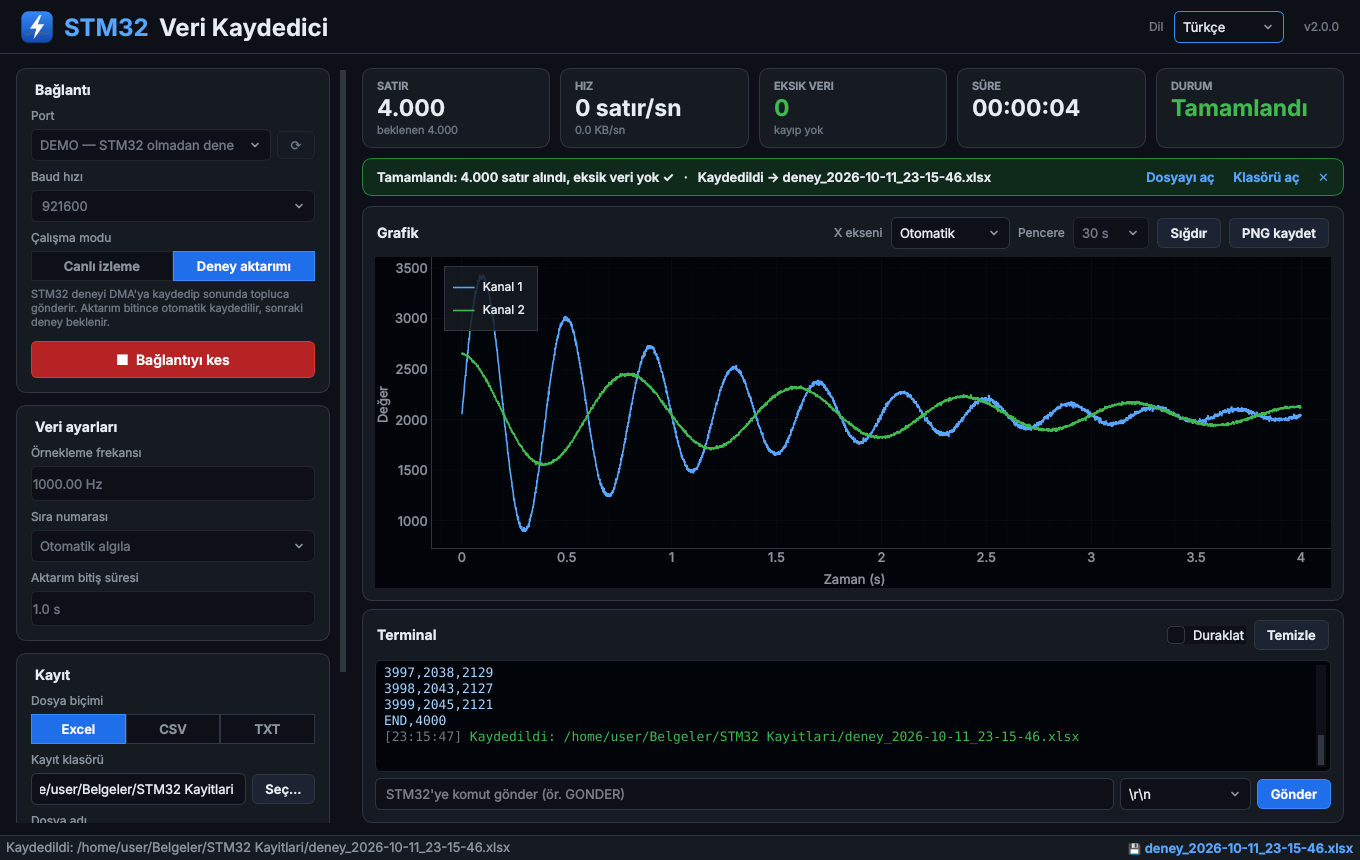
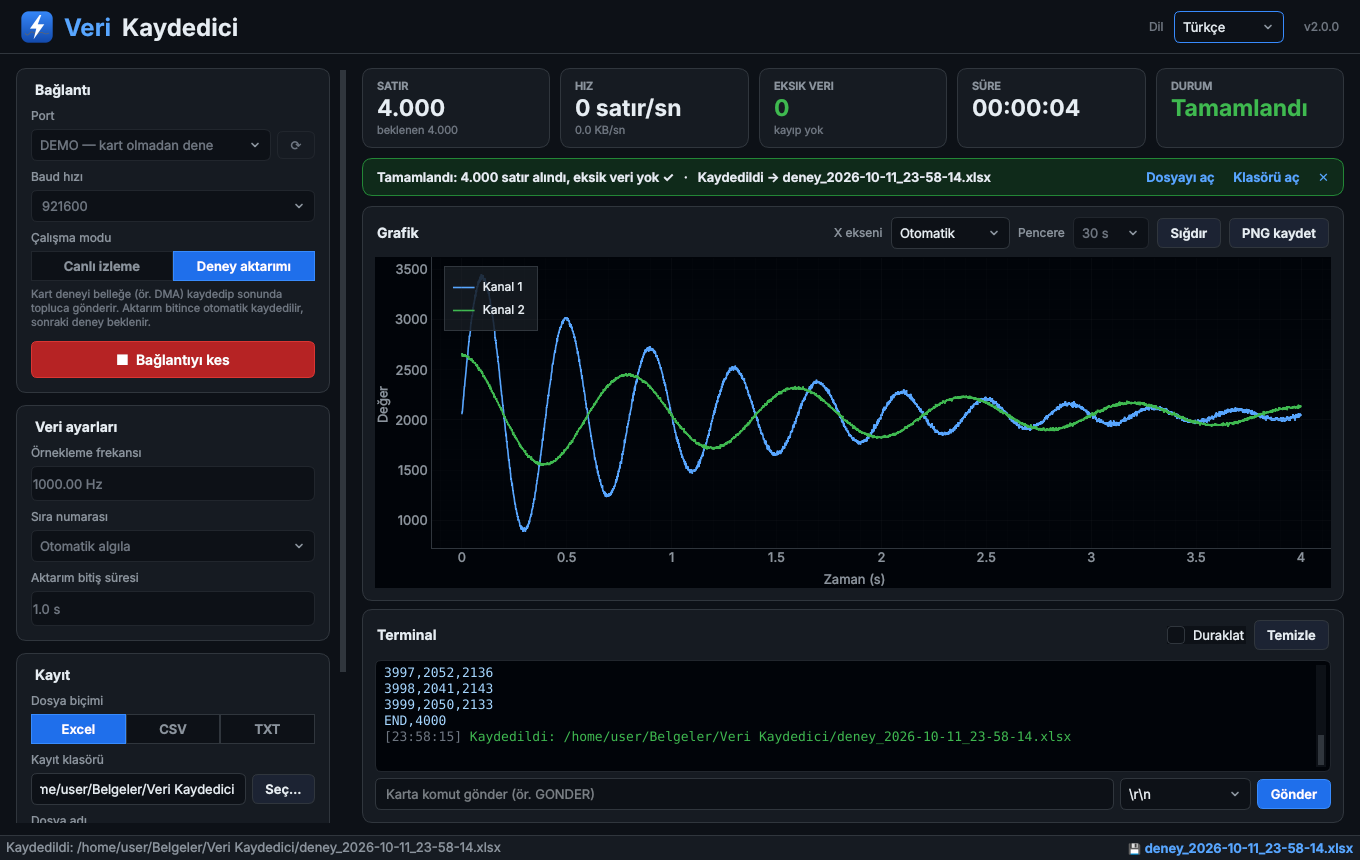
Add files via upload

diff --git a/stm32logger/i18n.py b/stm32logger/i18n.py
@@ -4,7 +4,9 @@ from __future__ import annotations
 STRINGS: dict[str, dict[str, str]] = {
     "tr": {
         # başlık / genel
-        "app_title": "Veri Kaydedici",
+        "title_a": "Veri",
+        "title_b": "Kaydedici",
+        "app_name": "Veri Kaydedici",
         "language": "Dil",
         # bağlantı kartı
         "card_conn": "Bağlantı",
@@ -15,18 +17,18 @@ STRINGS: dict[str, dict[str, str]] = {
         "mode_live": "Canlı izleme",
         "mode_dma": "Deney aktarımı",
         "mode_file": "Dosyadan",
-        "mode_live_hint": "STM32 veriyi gönderdikçe anlık gösterir ve kaydeder.",
-        "mode_dma_hint": "STM32 deneyi DMA'ya kaydedip sonunda topluca gönderir. "
+        "mode_live_hint": "Kart (STM32, Arduino, ESP32…) veriyi gönderdikçe anlık gösterir ve kaydeder.",
+        "mode_dma_hint": "Kart deneyi belleğe (ör. DMA) kaydedip sonunda topluca gönderir. "
                          "Aktarım bitince otomatik kaydedilir, sonraki deney beklenir.",
         "connect": "Bağlan",
         "disconnect": "Bağlantıyı kes",
         "no_port": "Port bulunamadı",
-        "demo_port": "DEMO — STM32 olmadan dene",
+        "demo_port": "DEMO — kart olmadan dene",
         # veri ayarları
         "card_data": "Veri ayarları",
         "fs": "Örnekleme frekansı",
         "fs_unknown": "Bilinmiyor",
-        "fs_tip": "STM32'nin örnekleme hızı. Girilirse her örneğin zamanı (s) hesaplanır.",
+        "fs_tip": "Kartın örnekleme hızı. Girilirse her örneğin zamanı (s) hesaplanır.",
         "seq": "Sıra numarası",
         "seq_auto": "Otomatik algıla",
         "seq_on": "İlk sütun sıra no",
@@ -81,7 +83,7 @@ STRINGS: dict[str, dict[str, str]] = {
         "terminal": "Terminal",
         "pause": "Duraklat",
         "clear": "Temizle",
-        "send_placeholder": "STM32'ye komut gönder (ör. GONDER)",
+        "send_placeholder": "Karta komut gönder (ör. GONDER)",
         "send": "Gönder",
         "eol_none": "Satır sonu yok",
         "term_dropped": "… ekran hızlı akışta {n} satırı atladı (dosyaya hepsi kaydedildi)",
@@ -123,7 +125,7 @@ STRINGS: dict[str, dict[str, str]] = {
         "sheet_summary": "Özet",
         "sheet_data": "Veriler",
         "sheet_chart": "Grafik",
-        "chart_title": "STM32 Sensör Verileri",
+        "chart_title": "Sensör Verileri",
         "sum_app": "Uygulama",
         "sum_mode": "Mod",
         "sum_port": "Port",
@@ -151,7 +153,9 @@ STRINGS: dict[str, dict[str, str]] = {
         "stat_std": "Std. sapma",
     },
     "en": {
-        "app_title": "Data Logger",
+        "title_a": "Data",
+        "title_b": "Logger",
+        "app_name": "Data Logger",
         "language": "Language",
         "card_conn": "Connection",
         "port": "Port",
@@ -161,17 +165,17 @@ STRINGS: dict[str, dict[str, str]] = {
         "mode_live": "Live monitor",
         "mode_dma": "Experiment dump",
         "mode_file": "From file",
-        "mode_live_hint": "Shows and records data as the STM32 sends it.",
-        "mode_dma_hint": "The STM32 stores the experiment in DMA and sends it all at the end. "
+        "mode_live_hint": "Shows and records data as the board (STM32, Arduino, ESP32…) sends it.",
+        "mode_dma_hint": "The board stores the experiment in memory (e.g. DMA) and sends it all at the end. "
                          "Each transfer is saved automatically, then the next one is awaited.",
         "connect": "Connect",
         "disconnect": "Disconnect",
         "no_port": "No ports found",
-        "demo_port": "DEMO — try without an STM32",
+        "demo_port": "DEMO — try without a board",
         "card_data": "Data settings",
         "fs": "Sample rate",
         "fs_unknown": "Unknown",
-        "fs_tip": "The STM32 sampling rate. If set, a time (s) column is computed for each sample.",
+        "fs_tip": "The board's sampling rate. If set, a time (s) column is computed for each sample.",
         "seq": "Sequence number",
         "seq_auto": "Auto-detect",
         "seq_on": "First column is seq",
@@ -222,7 +226,7 @@ STRINGS: dict[str, dict[str, str]] = {
         "terminal": "Terminal",
         "pause": "Pause",
         "clear": "Clear",
-        "send_placeholder": "Send a command to the STM32 (e.g. SEND)",
+        "send_placeholder": "Send a command to the board (e.g. SEND)",
         "send": "Send",
         "eol_none": "No line ending",
         "term_dropped": "… display skipped {n} lines during fast transfer (all were saved)",
@@ -262,7 +266,7 @@ STRINGS: dict[str, dict[str, str]] = {
         "sheet_summary": "Summary",
         "sheet_data": "Data",
         "sheet_chart": "Chart",
-        "chart_title": "STM32 Sensor Data",
+        "chart_title": "Sensor Data",
         "sum_app": "Application",
         "sum_mode": "Mode",
         "sum_port": "Port",

diff --git a/main.py b/main.py
@@ -1,4 +1,4 @@
-"""STM32 Veri Kaydedici — giriş noktası.
+"""Veri Kaydedici — giriş noktası.
 
 Kaynak koddan çalıştırma:
     pip install -r requirements.txt
@@ -15,7 +15,7 @@ def _crash_log_path() -> str:
     base = Path.home() / "Documents"
     if not base.exists():
         base = Path.home()
-    return str(base / "stm32_veri_kaydedici_hata.txt")
+    return str(base / "veri_kaydedici_hata.txt")
 
 
 def _excepthook(exc_type, exc, tb):
@@ -32,7 +32,7 @@ def _excepthook(exc_type, exc, tb):
         if QApplication.instance():
             from stm32logger.i18n import T
 
-            QMessageBox.critical(None, "STM32 Veri Kaydedici", T("tr")("crash", path=path) + "\n\n" + err[-1500:])
+            QMessageBox.critical(None, "Veri Kaydedici", T("tr")("crash", path=path) + "\n\n" + err[-1500:])
     except Exception:
         pass
     sys.__excepthook__(exc_type, exc, tb)
@@ -45,7 +45,7 @@ def main() -> int:
         try:
             import ctypes
 
-            ctypes.windll.shell32.SetCurrentProcessExplicitAppUserModelID("mhmtcndsgn.stm32verikaydedici")
+            ctypes.windll.shell32.SetCurrentProcessExplicitAppUserModelID("mhmtcndsgn.verikaydedici")
         except Exception:
             pass
 
@@ -53,7 +53,7 @@ def main() -> int:
     from PySide6.QtWidgets import QApplication
 
     app = QApplication(sys.argv)
-    app.setApplicationName("STM32 Veri Kaydedici")
+    app.setApplicationName("Veri Kaydedici")
     app.setOrganizationName("mhmtcndsgn")
     app.setStyle("Fusion")
 
@@ -80,7 +80,7 @@ def main() -> int:
 def _selftest(app, win) -> None:
     """Paketlenmiş uygulamanın uçtan uca çalıştığını doğrular (CI'da kullanılır).
 
-    STM32_Veri_Kaydedici --selftest sonuc.txt
+    Veri_Kaydedici --selftest sonuc.txt
     DEMO portuna bağlanır, bir deney aktarımı alır, Excel + PNG kaydeder, çıkar.
     """
     import tempfile
@@ -92,7 +92,7 @@ def _selftest(app, win) -> None:
 
     i = sys.argv.index("--selftest")
     out = sys.argv[i + 1] if len(sys.argv) > i + 1 else "selftest.txt"
-    d = tempfile.mkdtemp(prefix="stm32vk_")
+    d = tempfile.mkdtemp(prefix="verikaydedici_")
     win.folder_edit.setText(d)
     win.seg_mode.set_value("dma")
     win._on_mode_changed("dma")

diff --git a/stm32logger/engine.py b/stm32logger/engine.py
@@ -252,7 +252,7 @@ class Engine:
 
 
 # ======================================================================
-# DEMO: STM32 takılı değilken uygulamayı denemek için sahte seri port
+# DEMO: kart takılı değilken uygulamayı denemek için sahte seri port
 # ======================================================================
 class DemoSerial:
     """pyserial.Serial ile aynı arayüze sahip, veri üreten sahte port.
@@ -368,14 +368,36 @@ def open_port(port: str, baud: int, mode: str):
     return ser
 
 
+# Bilinen kart / USB-seri çip üreticileri (USB VID)
+KNOWN_VIDS = {
+    0x0483: "STM32",          # STMicroelectronics (ST-Link VCP, USB CDC)
+    0x2341: "Arduino",        # Arduino SA
+    0x2A03: "Arduino",        # Arduino.org
+    0x303A: "ESP32",          # Espressif (yerleşik USB)
+    0x1A86: "CH340",          # WCH (Arduino klonları, ESP kartları)
+    0x10C4: "CP210x",         # Silicon Labs (ESP32 DevKit vb.)
+    0x0403: "FTDI",           # FTDI
+    0x2E8A: "Pico",           # Raspberry Pi Pico
+    0x239A: "Adafruit",
+    0x16C0: "Teensy",
+}
+
+
 def list_ports() -> list[tuple[str, str, bool]]:
-    """(port, açıklama, stm32_mi) listesi. STM32 olanlar öne alınır."""
+    """(port, açıklama, bilinen_kart_mı) listesi. Tanınan kartlar öne alınır,
+    Bluetooth sanal portları sona atılır."""
     from serial.tools import list_ports as lp
 
     out = []
     for p in lp.comports():
         desc = p.description or p.device
-        is_stm = (p.vid == 0x0483) or "STM" in desc.upper() or "ST-LINK" in desc.upper()
-        out.append((p.device, desc, is_stm))
-    out.sort(key=lambda x: (not x[2], x[0]))
-    return out
+        board = KNOWN_VIDS.get(p.vid or -1)
+        up = desc.upper()
+        if not board and ("ST-LINK" in up or "STM" in up):
+            board = "STM32"
+        if board and board.upper() not in up:
+            desc = f"{desc} [{board}]"
+        is_bt = "BLUETOOTH" in up
+        out.append((p.device, desc, bool(board), is_bt))
+    out.sort(key=lambda x: (not x[2], x[3], x[0]))
+    return [(d, desc, known) for d, desc, known, _ in out]

diff --git a/stm32logger/ui/main_window.py b/stm32logger/ui/main_window.py
@@ -47,7 +47,7 @@ def _fmt_int(n: int) -> str:
 class MainWindow(QMainWindow):
     def __init__(self):
         super().__init__()
-        self.settings = QSettings(ORG_NAME, "STM32VeriKaydedici")
+        self.settings = QSettings(ORG_NAME, "VeriKaydedici")
         self.lang = str(self.settings.value("lang", "tr"))
         self.t = T(self.lang)
 
@@ -122,11 +122,11 @@ class MainWindow(QMainWindow):
             logo.setPixmap(pm.scaled(34, 34, Qt.KeepAspectRatio, Qt.SmoothTransformation))
         logo.setStyleSheet("background: transparent;")
         lay.addWidget(logo)
-        a = QLabel("STM32")
-        a.setObjectName("TitleBlue")
+        self.lbl_title_a = QLabel()
+        self.lbl_title_a.setObjectName("TitleBlue")
         self.lbl_title = QLabel()
         self.lbl_title.setObjectName("TitleMain")
-        lay.addWidget(a)
+        lay.addWidget(self.lbl_title_a)
         lay.addWidget(self.lbl_title)
         lay.addStretch(1)
         self.lbl_lang = QLabel()
@@ -397,7 +397,9 @@ class MainWindow(QMainWindow):
     # ================================================================ METİNLER
     def retranslate(self) -> None:
         t = self.t
-        self.lbl_title.setText(t("app_title"))
+        self.lbl_title_a.setText(t("title_a"))
+        self.lbl_title.setText(t("title_b"))
+        self.setWindowTitle(t("app_name"))
         self.lbl_lang.setText(t("language"))
         self.card_conn.title.setText(t("card_conn"))
         self.lbl_port.setText(t("port"))
@@ -477,7 +479,7 @@ class MainWindow(QMainWindow):
     # ================================================================ AYARLAR
     def _default_folder(self) -> str:
         docs = QStandardPaths.writableLocation(QStandardPaths.DocumentsLocation) or str(Path.home())
-        return os.path.join(docs, "STM32 Kayitlari")
+        return os.path.join(docs, "Veri Kaydedici")
 
     def _load_settings(self) -> None:
         s = self.settings

diff --git a/stm32logger/__init__.py b/stm32logger/__init__.py
@@ -1,5 +1,5 @@
-"""STM32 Veri Kaydedici — STM32'den seri port üzerinden kayıpsız veri toplama."""
+"""Veri Kaydedici — STM32, Arduino, ESP32 vb. kartlardan seri port üzerinden kayıpsız veri toplama."""
 
 __version__ = "2.0.0"
-APP_NAME = "STM32 Veri Kaydedici"
+APP_NAME = "Veri Kaydedici"
 ORG_NAME = "mhmtcndsgn"
